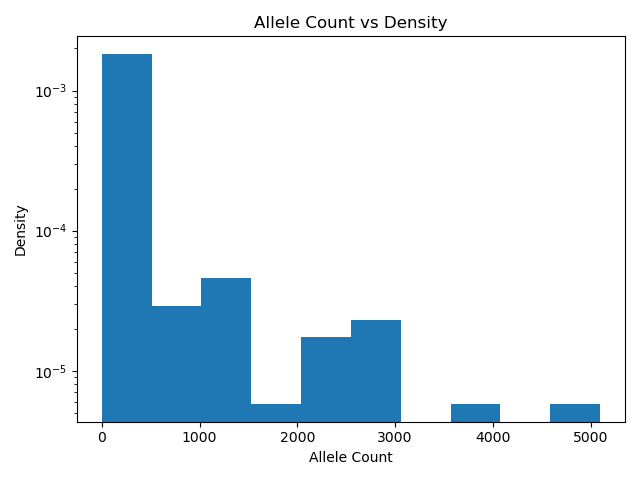
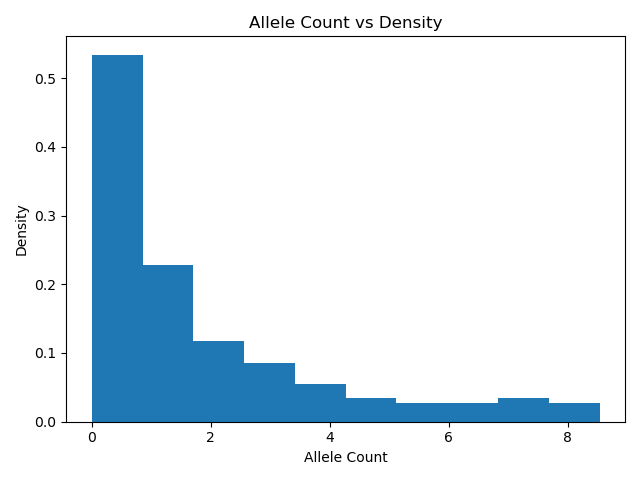
Submissions

diff --git a/day4-homework/binomial_power_interactive_lecture.py b/day4-homework/binomial_power_interactive_lecture.py
@@ -64,7 +64,7 @@ def compute_power(n_rejected_correctly, n_tests):
     power = n_rejected_correctly / n_tests
     return(power)
 
-def run_experiment(prob_heads, n_toss, n_iters = 100, seed = 389, correct_the_pvalues = False):
+def run_experiment(prob_heads, n_toss, n_iters = 100, seed = 389, correct_the_pvalues = True):
     '''
     Input: prob_heads, a float, the probability of a simulated coin toss returning heads
            n_toss, an integer, the number of coin tosses to simulate
@@ -111,5 +111,5 @@ sns.heatmap(power_mat, vmin=0, vmax=1, xticklabels='auto', yticklabels='auto', a
 ax.set_xlabel("n_tosses")
 ax.set_ylabel("prob_heads")
 ax.set_title("Heatmap to Visualize Power")
-fig.savefig("heatmap.png" )
+fig.savefig("heatmap_corrected.png" )
 #plt.show()

diff --git a/day4-lunch/plot_vcf_ac.py b/day4-lunch/plot_vcf_ac.py
@@ -2,7 +2,7 @@
 
 import sys
 import matplotlib.pyplot as plt
-import math
+import numpy as np
 
 vcf = sys.argv[1]
 fs = open( vcf )
@@ -15,13 +15,14 @@ for i, line in enumerate( fs ):
     info = fields[7].split(";")
     ac.append( int(info[0].replace("AC=","")) )
 
+ac = np.log1p(ac)
+
 fig, ax = plt.subplots()
 ax.hist( ac, density=True )
 
 ax.set_xlabel("Allele Count")
 ax.set_ylabel("Density")
 ax.set_title("Allele Count vs Density")
-ax.set_yscale('log')
 
 fig.tight_layout()
 fig.savefig( vcf + ".png" )

diff --git a/README.md b/README.md
@@ -1,1 +1,49 @@
 # QBB2022 - Day 3 - Homework Exercises Submission
+
+Exercise 1:
+
+Run -> plink --vcf ALL.chr21.shapeit2_integrated_v1a.GRCh38.20181129.phased.vcf.gz --pca 3
+
+Results saved to plink.eigenval and plink.eigenvec .
+
+Exercise 2:
+
+#!/usr/bin/env python
+
+import matplotlib.pyplot as plt
+import numpy as np
+
+vals_per_gene = np.genfromtxt("joined_file.txt", dtype = None, encoding = None, names= ["locus1", "locus2", "val1", "val2", "val3", "pop", "super_pop", "gender"])
+
+fig, ax = plt.subplots(nrows = 2)
+
+ax[0].set_ylabel("PCA2")
+ax[0].set_xlabel("PCA1")
+ax[1].set_ylabel("PCA3")
+ax[1].set_xlabel("PCA1")
+ax[0].scatter(vals_per_gene["val1"], vals_per_gene["val2"])
+ax[1].scatter(vals_per_gene["val1"], vals_per_gene["val3"])
+
+fig.tight_layout()
+plt.savefig("homework2_figures1and2.png")
+plt.show()
+
+I see clustering in the plot, which might indicate SNP clustering based on a certain variable such as demographic.
+
+Exercise 3:
+
+join <(sort plink.eigenvec) <(sort integrated_call_samples.panel) > joined_file.txt
+
+#!/usr/bin/env python
+
+import matplotlib.pyplot as plt
+import numpy as np
+
+vals_per_gene = np.genfromtxt("joined_file.txt", dtype = None, encoding = None, names= ["locus1", "locus2", "val1", "val2", "val3", "pop", "super_pop", "gender"])
+
+print(np.unique(vals_per_gene["super_pop"]))
+
+pops = np.unique(vals_per_gene["super_pop"])
+
+for pop in pops
+    np.where(vals_per_gene["super_pop"]==pop)
